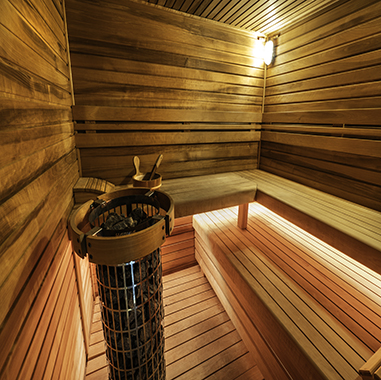
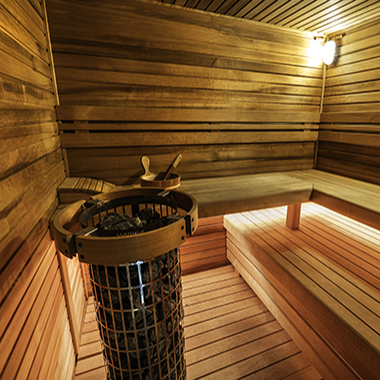
uprava loga final + uprava fotiek IG area

diff --git a/css/style.css b/css/style.css
@@ -1586,7 +1586,6 @@ h3 {
 }
 
 .instragram_area .single_instagram {
-  /*width: 20%;*/
   float: left;
   position: relative;
   overflow: hidden;
@@ -1609,14 +1608,7 @@ h3 {
 }
 
 .instragram_area .single_instagram img {
-  width: 100%;
-  -webkit-transform: scaleX(1);
-  -moz-transform: scaleX(1);
-  -ms-transform: scaleX(1);
-  transform: scaleX(1);
-  -webkit-transition: 0.5s;
-  -moz-transition: 0.5s;
-  -o-transition: 0.5s;
+  width: 100%; /* Obrázky budú mať 100% šírku kontajnera, čím sa zobrazia v pôvodnej veľkosti */
   transition: 0.5s;
 }
 
@@ -1627,13 +1619,7 @@ h3 {
   width: 100%;
   height: 100%;
   background: rgba(0, 0, 0, 0.2);
-  -webkit-transform: translateX(-80%);
-  -moz-transform: translateX(-80%);
-  -ms-transform: translateX(-80%);
   transform: translateX(-80%);
-  -webkit-transition: 0.5s;
-  -moz-transition: 0.5s;
-  -o-transition: 0.5s;
   transition: 0.5s;
   opacity: 0;
   visibility: hidden;
@@ -1648,27 +1634,18 @@ h3 {
   right: 0;
   text-align: center;
   font-size: 34px;
-  -webkit-transform: translateY(-50%);
-  -moz-transform: translateY(-50%);
-  -ms-transform: translateY(-50%);
-  transform: translateY(-50%);
 }
 
 .instragram_area .single_instagram:hover .ovrelay {
-  -webkit-transform: translateX(0%);
-  -moz-transform: translateX(0%);
-  -ms-transform: translateX(0%);
   transform: translateX(0%);
   opacity: 1;
   visibility: visible;
 }
 
 .instragram_area .single_instagram:hover img {
-  -webkit-transform: scaleX(1.1);
-  -moz-transform: scaleX(1.1);
-  -ms-transform: scaleX(1.1);
-  transform: scaleX(1.1);
+  transform: scale(1.1); /* Ak chcete zachovať zväčšenie pri hover, ponechajte túto časť */
 }
+
 
 #test-form .white-popup-block .popup_inner .gj-datepicker span {
   color: red;
